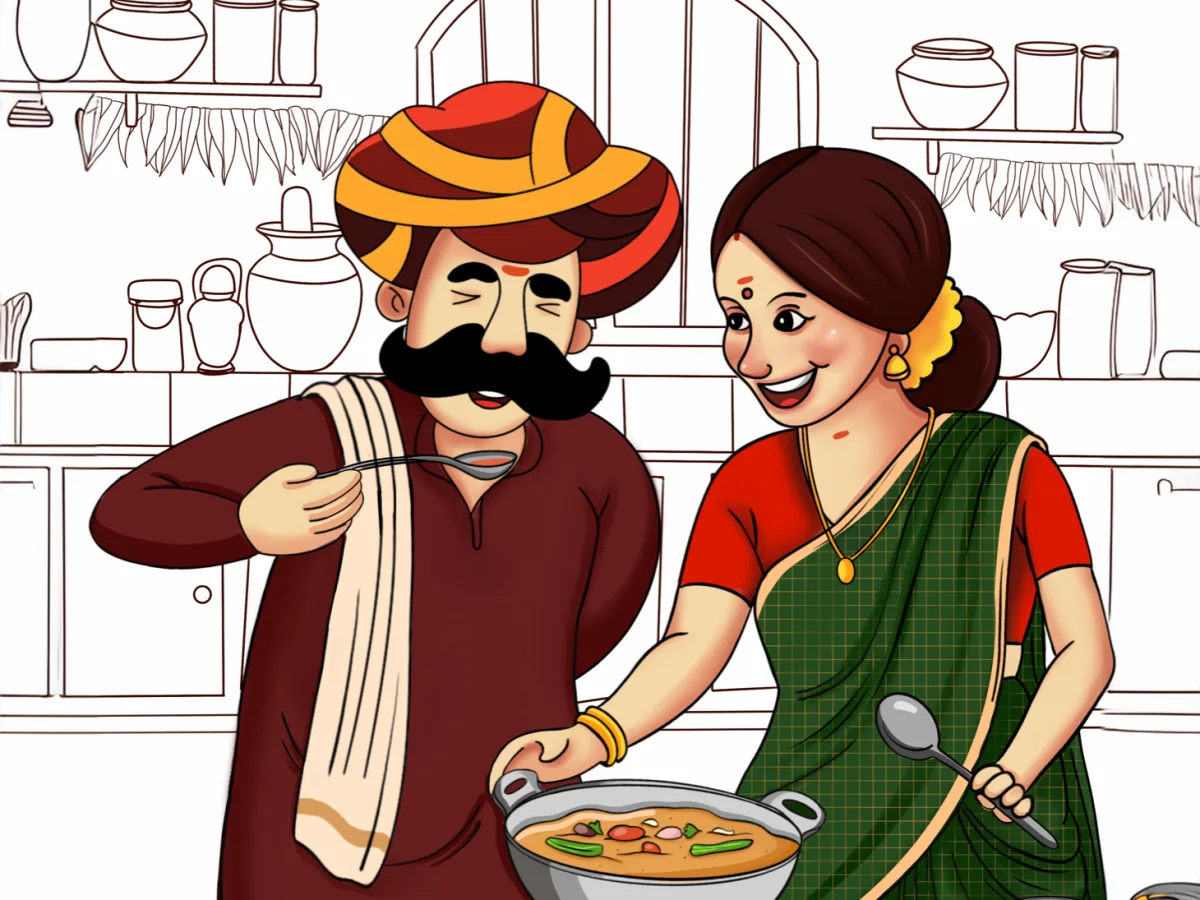
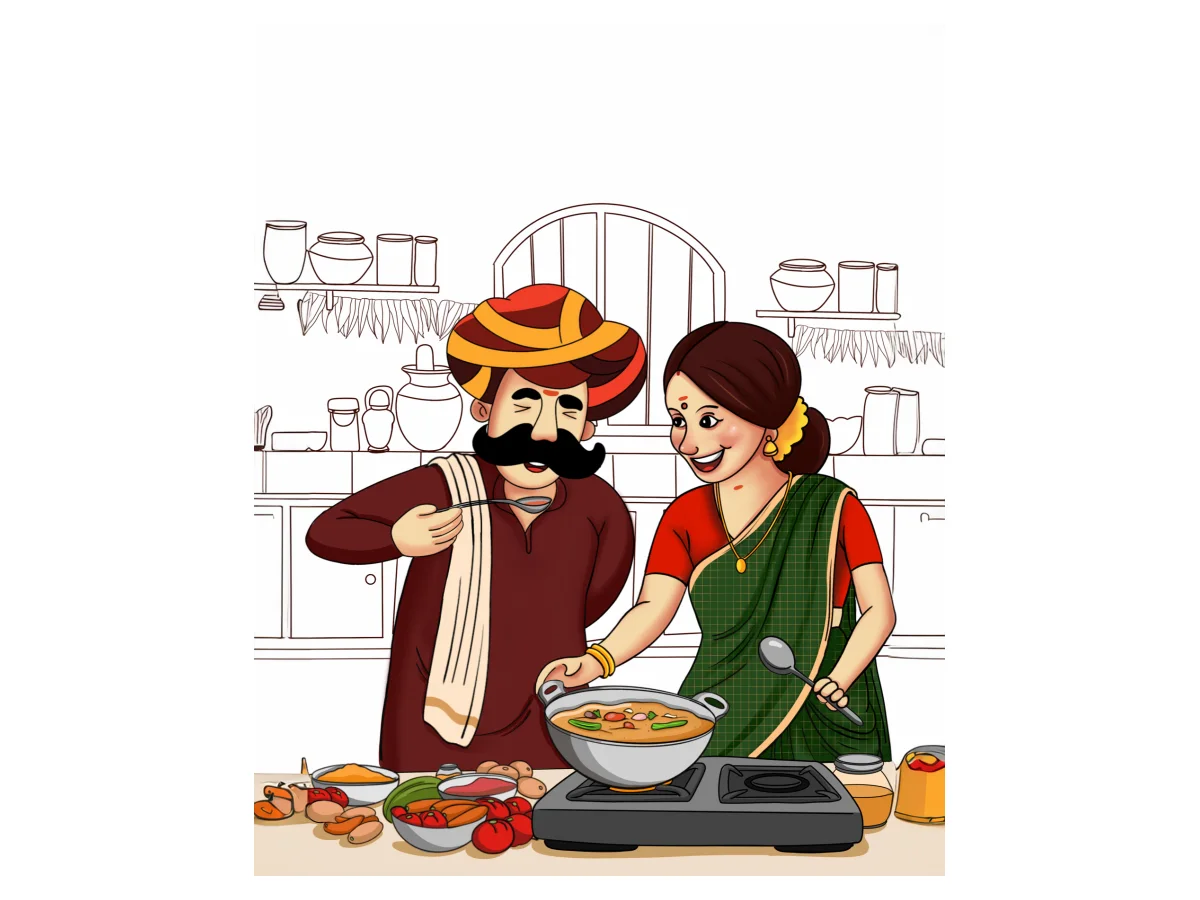
Show the full recipe artwork instead of a zoomed crop
Recipe images now hold the whole illustration on white; the kitchen section
fits them with object-fit: contain and no parallax zoom.

diff --git a/frontend/assets/css/home.css b/frontend/assets/css/home.css
@@ -118,6 +118,9 @@ html:not(.motion) .progress { display: none }
 @keyframes fade-up { from { opacity: 0; transform: translateY(10px) } }
 .dish { position: relative; border-radius: var(--r-xl); overflow: hidden; aspect-ratio: 4 / 3; background: #e9dcc6 }
 .dish img { width: 100%; height: 115%; object-fit: cover; transform: translateY(var(--par, 0px)) }
+/* Recipe images are the family illustrations (whole artwork on white): show them in full, no parallax zoom. */
+.kitchen .dish { background: #fff }
+.kitchen .dish img { height: 100%; object-fit: contain; transform: none }
 .dish .tagph { position: absolute; left: 14px; bottom: 14px; background: rgba(251, 244, 230, .94); color: var(--ink); font-size: .8rem; font-weight: 500; border-radius: var(--r-sm); padding: 6px 10px 4px; border: 1.5px dashed var(--ink-soft); max-width: 80% }
 .recipe h3 { font-size: clamp(32px, 3vw, 52px); margin-bottom: 6px }
 .recipe .uses { display: flex; align-items: center; gap: 12px; margin: 14px 0 22px; font-weight: 600; font-size: .95rem; text-decoration: none; width: fit-content; border-radius: var(--r-md) }

diff --git a/frontend/assets/images/SOURCES.md b/frontend/assets/images/SOURCES.md
@@ -6,6 +6,6 @@ Derived web images and the repository original they come from (originals in `Ima
 |---|---|---|
 | `campaign/pounding-scene.webp` | `Images/WhatsApp Image 2026-10-27 at 06.26.37.jpeg` (Guntur Gold pack front) | crop x628 y418 327×545 (inside the pack's red panel), WebP q86; used on `maintenance.html` |
 | `packs/<slug>.webp`, `packs/<slug>-sm.webp` (10 products + `red-chilli-pickle`) | `~/Downloads/Spicemama_Mockup/*.png` (owner-supplied pack mockups, 2026-11-07) | transparent margins trimmed, 1100 px tall (`-sm`: 400 px wide), WebP q86 with alpha. Not yet replaced: `oont-chap-chilli-powder` (no mockup supplied) |
-| `recipes/tomato-rasam.webp` | `~/Downloads/Spice mama art/Rasam.jpg` | 4:3 crop, 1200×900, WebP q84 |
-| `recipes/vegetable-sambar.webp` | `~/Downloads/Spice mama art/Sambar.jpg` | 4:3 crop from 25% down, 1200×900 |
-| `recipes/aloo-methi-fry.webp` | `~/Downloads/Spice mama art/kasuri methi copy.png` | transparency flattened on white, 4:3 crop from 27% down, 1200×900 |
+| `recipes/tomato-rasam.webp` | `~/Downloads/Spice mama art/Rasam.jpg` | whole artwork centred on white in 1200×900, WebP q84 |
+| `recipes/vegetable-sambar.webp` | `~/Downloads/Spice mama art/Sambar.jpg` | whole artwork centred on white in 1200×900 |
+| `recipes/aloo-methi-fry.webp` | `~/Downloads/Spice mama art/kasuri methi copy.png` | transparency flattened on white, whole artwork centred in 1200×900 |
